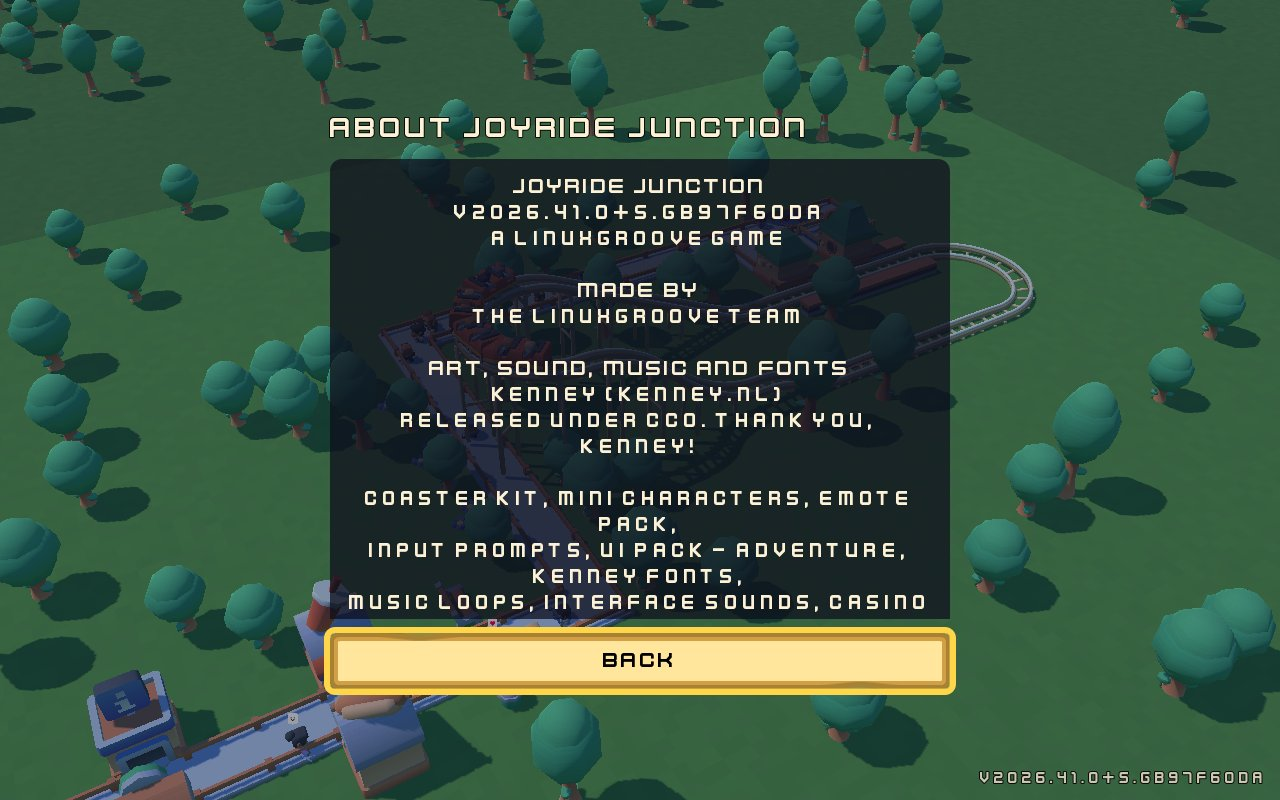
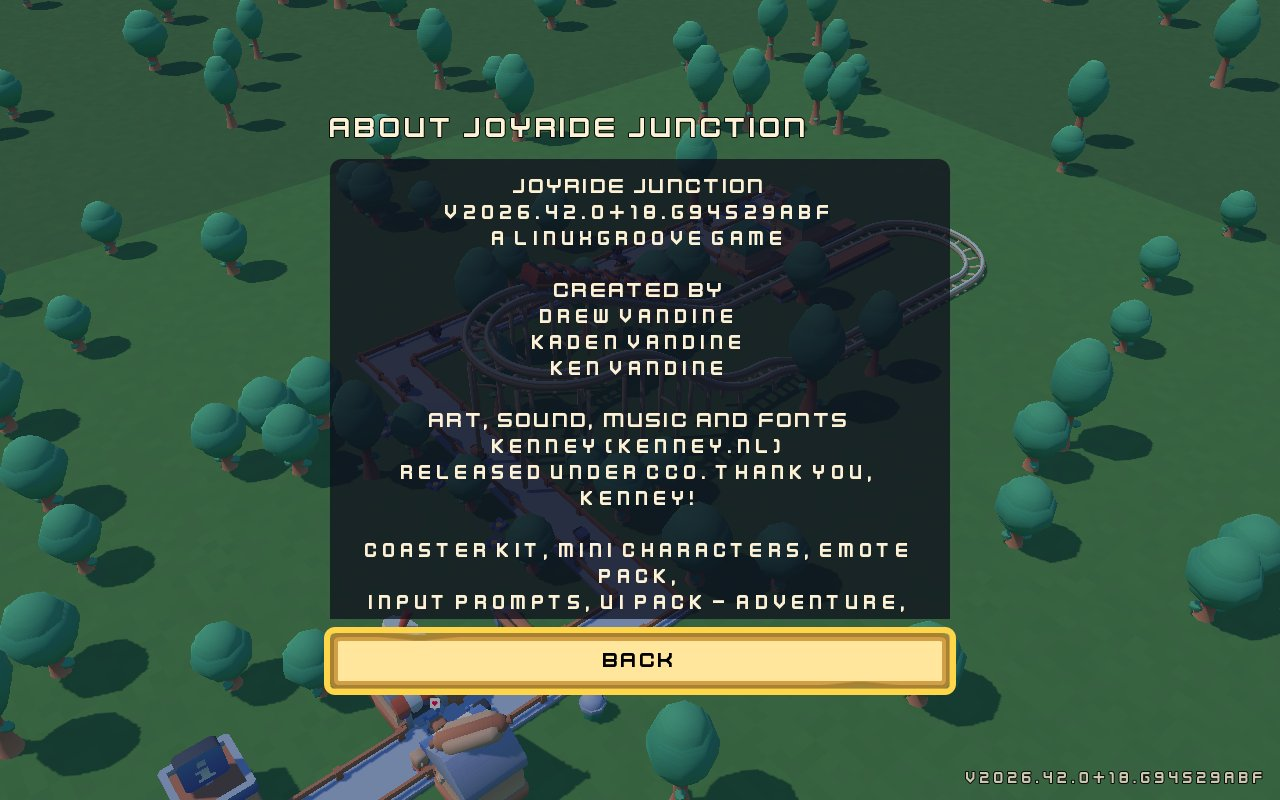
About now credits Drew, Kaden and Ken VanDine
Claude-Session: https://claude.ai/code/session_01DpnPnXD9tsBULXmuHQ3GGR

diff --git a/CREDITS.md b/CREDITS.md
@@ -1,6 +1,6 @@
 # Credits
 
-Made by the LinuxGroove team.
+Made by Drew, Kaden, and Ken VanDine, the LinuxGroove team.
 
 ## Art, audio and fonts
 
